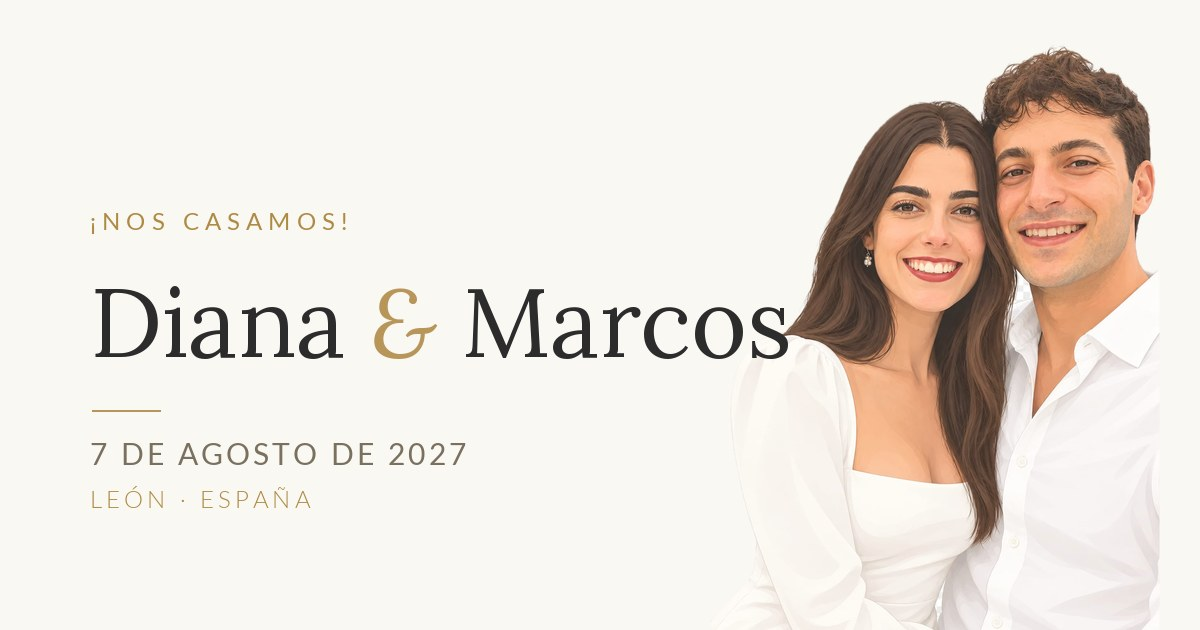
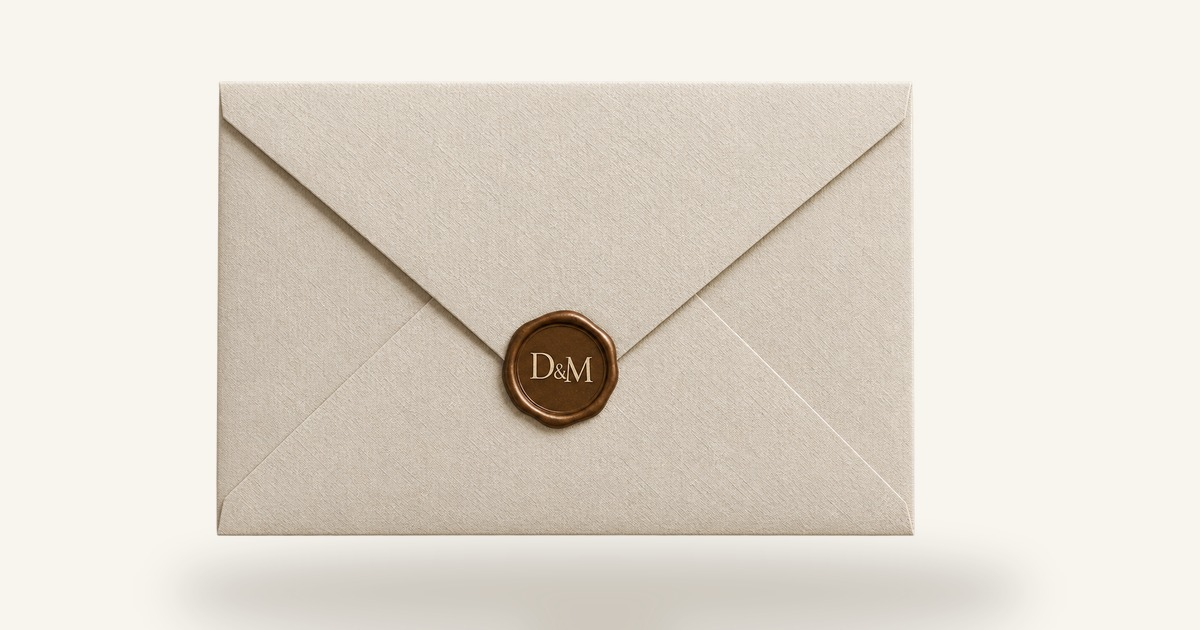
Add files via upload

diff --git a/travel.html b/travel.html
@@ -9,15 +9,15 @@
   <!-- Link preview (Open Graph) -->
   <meta property="og:type" content="website" />
   <meta property="og:url" content="https://bodadianaymarcos.com/travel.html" />
-  <meta property="og:title" content="Diana &amp; Marcos · 7 de agosto de 2027" />
-  <meta property="og:description" content="¡Nos casamos! Aquí encontrarás toda la información de nuestra boda en León." />
+  <meta property="og:title" content="Diana &amp; Marcos" />
+  <meta property="og:description" content="Tenemos algo que contarte..." />
   <meta property="og:image" content="https://bodadianaymarcos.com/og-image.jpg" />
   <meta property="og:image:width" content="1200" />
   <meta property="og:image:height" content="630" />
   <meta property="og:locale" content="es_ES" />
   <meta name="twitter:card" content="summary_large_image" />
-  <meta name="twitter:title" content="Diana &amp; Marcos · 7 de agosto de 2027" />
-  <meta name="twitter:description" content="¡Nos casamos! Aquí encontrarás toda la información de nuestra boda en León." />
+  <meta name="twitter:title" content="Diana &amp; Marcos" />
+  <meta name="twitter:description" content="Tenemos algo que contarte..." />
   <meta name="twitter:image" content="https://bodadianaymarcos.com/og-image.jpg" />
 
   <link rel="icon" type="image/svg+xml" href="favicon.svg?v=5" />

diff --git a/rsvp.html b/rsvp.html
@@ -9,15 +9,15 @@
   <!-- Link preview (Open Graph) -->
   <meta property="og:type" content="website" />
   <meta property="og:url" content="https://bodadianaymarcos.com/rsvp.html" />
-  <meta property="og:title" content="Diana &amp; Marcos · 7 de agosto de 2027" />
-  <meta property="og:description" content="¡Nos casamos! Aquí encontrarás toda la información de nuestra boda en León." />
+  <meta property="og:title" content="Diana &amp; Marcos" />
+  <meta property="og:description" content="Tenemos algo que contarte..." />
   <meta property="og:image" content="https://bodadianaymarcos.com/og-image.jpg" />
   <meta property="og:image:width" content="1200" />
   <meta property="og:image:height" content="630" />
   <meta property="og:locale" content="es_ES" />
   <meta name="twitter:card" content="summary_large_image" />
-  <meta name="twitter:title" content="Diana &amp; Marcos · 7 de agosto de 2027" />
-  <meta name="twitter:description" content="¡Nos casamos! Aquí encontrarás toda la información de nuestra boda en León." />
+  <meta name="twitter:title" content="Diana &amp; Marcos" />
+  <meta name="twitter:description" content="Tenemos algo que contarte..." />
   <meta name="twitter:image" content="https://bodadianaymarcos.com/og-image.jpg" />
 
   <link rel="icon" type="image/svg+xml" href="favicon.svg?v=4" />

diff --git a/index.html b/index.html
@@ -9,15 +9,15 @@
   <!-- Link preview (Open Graph) -->
   <meta property="og:type" content="website" />
   <meta property="og:url" content="https://bodadianaymarcos.com/" />
-  <meta property="og:title" content="Diana &amp; Marcos · 7 de agosto de 2027" />
-  <meta property="og:description" content="¡Nos casamos! Aquí encontrarás toda la información de nuestra boda en León." />
+  <meta property="og:title" content="Diana &amp; Marcos" />
+  <meta property="og:description" content="Tenemos algo que contarte..." />
   <meta property="og:image" content="https://bodadianaymarcos.com/og-image.jpg" />
   <meta property="og:image:width" content="1200" />
   <meta property="og:image:height" content="630" />
   <meta property="og:locale" content="es_ES" />
   <meta name="twitter:card" content="summary_large_image" />
-  <meta name="twitter:title" content="Diana &amp; Marcos · 7 de agosto de 2027" />
-  <meta name="twitter:description" content="¡Nos casamos! Aquí encontrarás toda la información de nuestra boda en León." />
+  <meta name="twitter:title" content="Diana &amp; Marcos" />
+  <meta name="twitter:description" content="Tenemos algo que contarte..." />
   <meta name="twitter:image" content="https://bodadianaymarcos.com/og-image.jpg" />
 
   <link rel="icon" type="image/svg+xml" href="favicon.svg?v=4" />
